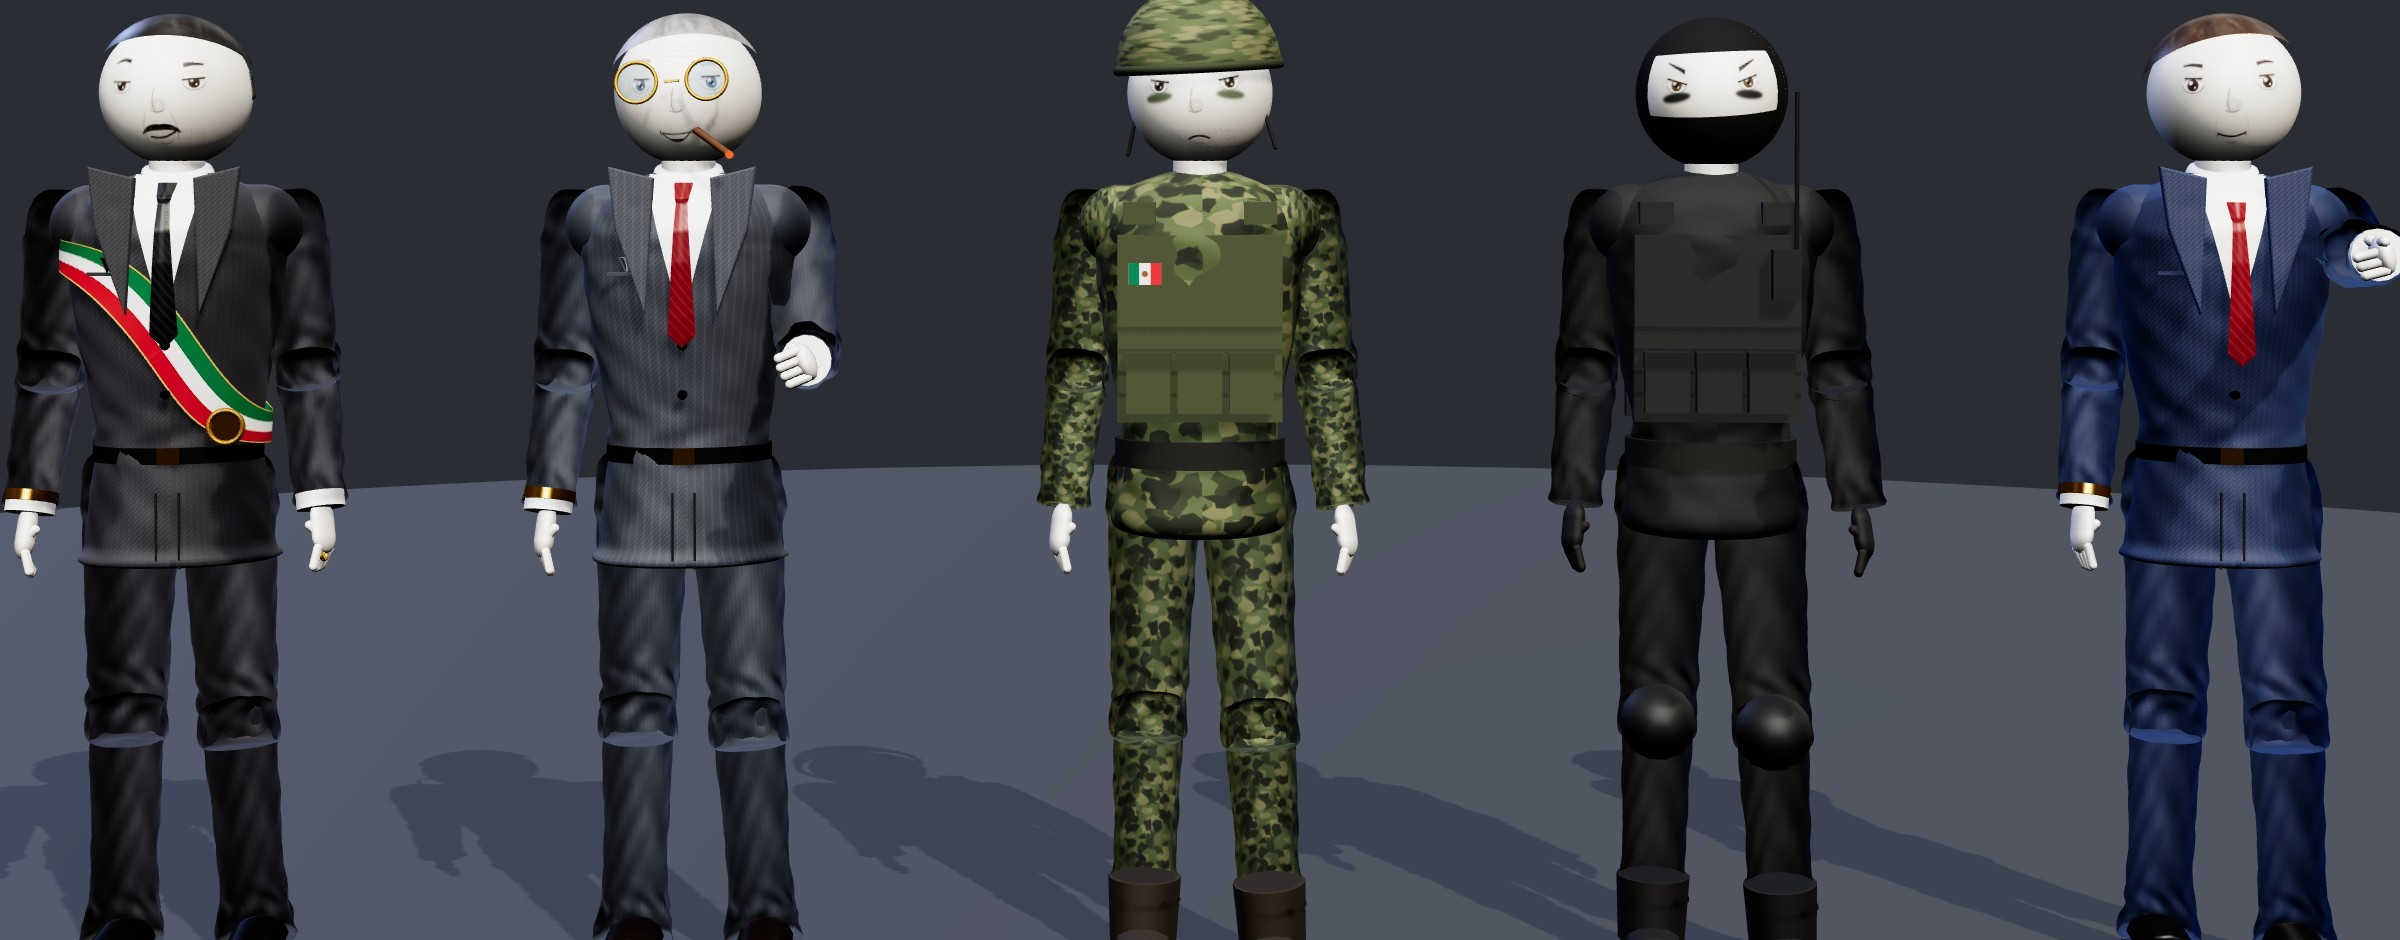
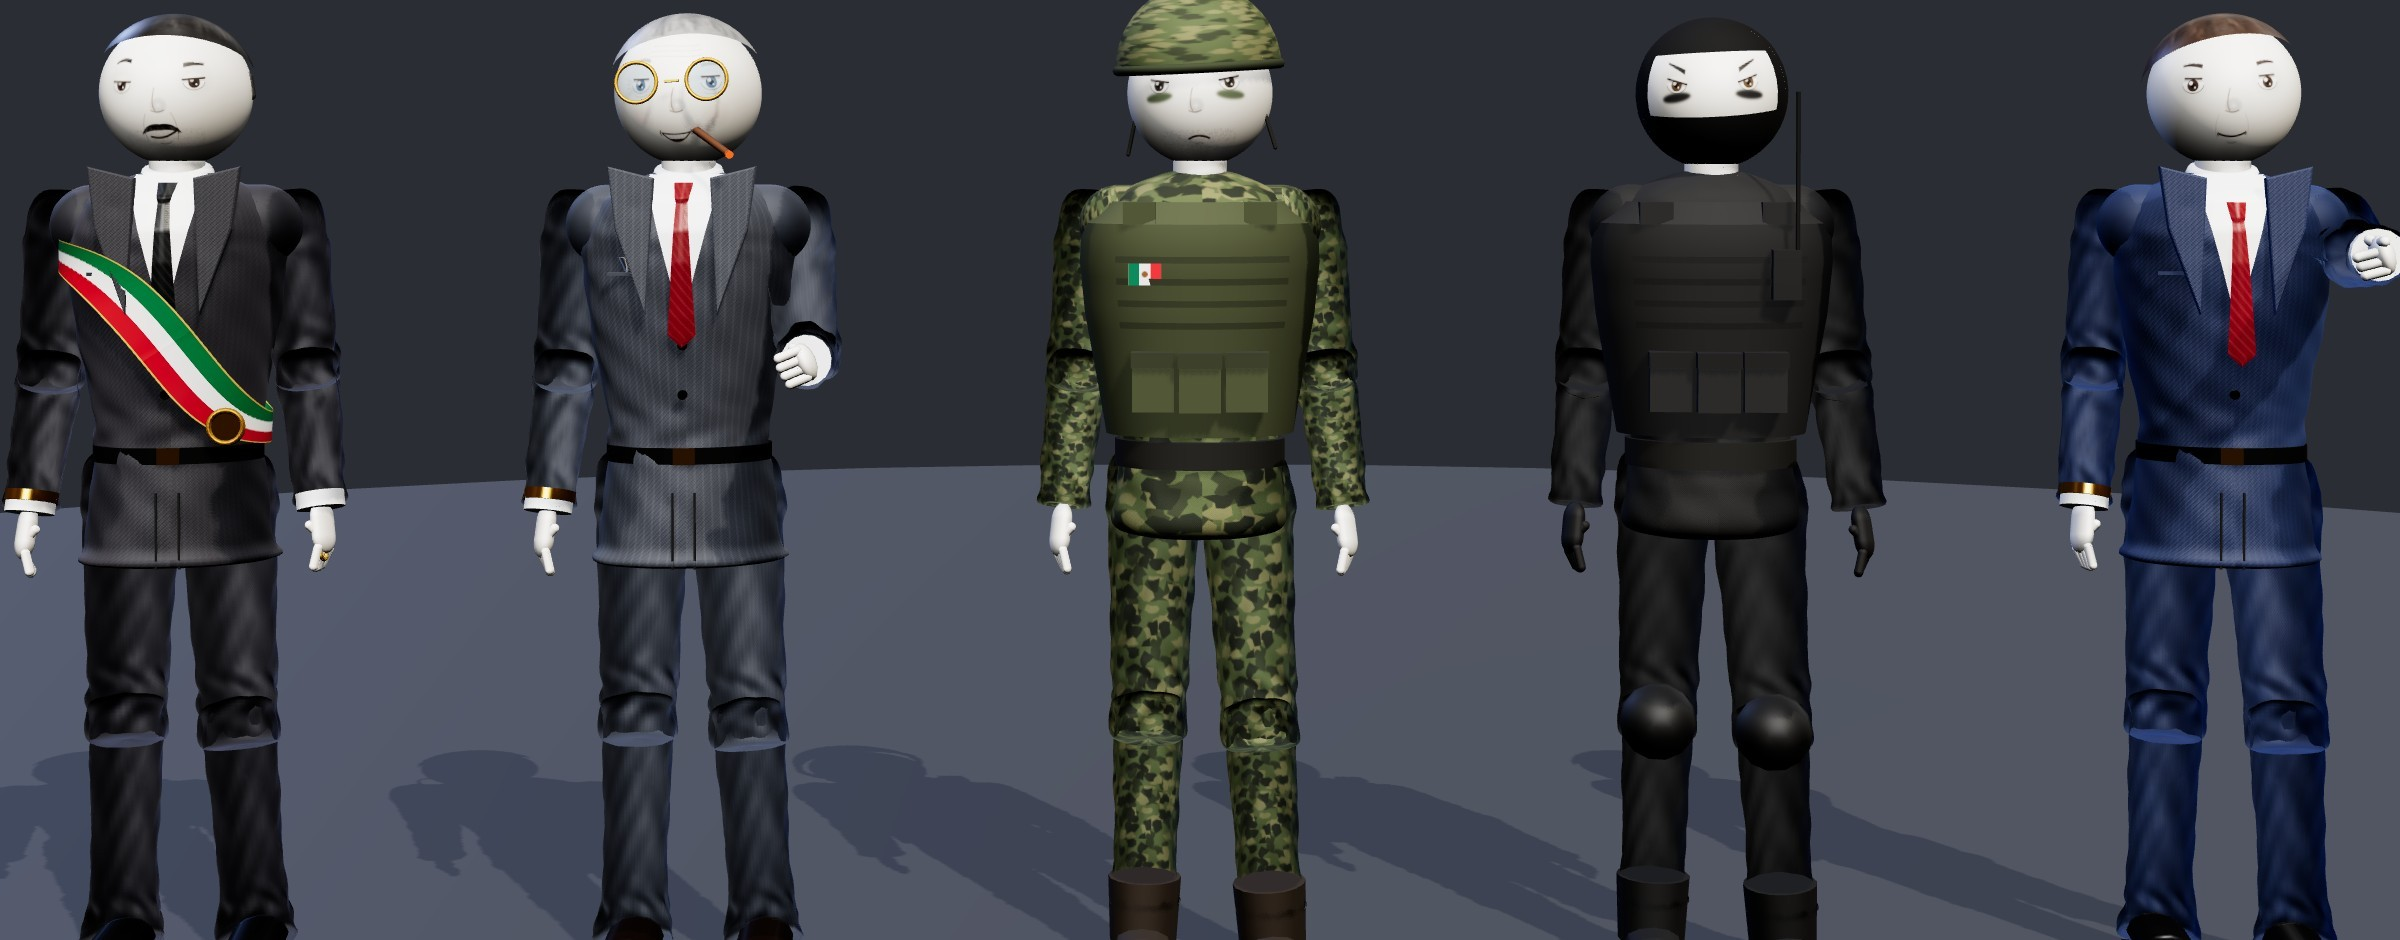
Fix soldier/tactical vest clipping and sash layering over the tie
Claude-Session: https://claude.ai/code/session_01WDrQiuAKGjVZNTyo2ws8iR

diff --git a/youtube-shorts/narco-estado/build/chars.js b/youtube-shorts/narco-estado/build/chars.js
@@ -252,21 +252,25 @@ export function stickman(kind) {
     add(root, new THREE.BoxGeometry(.04, .03, .01), std(0xc9a040, { metalness: 1, roughness: .2 }), 0, .965, .101);
   } else {
     // plate carrier with MOLLE webbing, pouches with flaps, shoulder straps
-    const vm = std(L.vest, { roughness: .95 }), web = std(L.vest - 0x0a0a0a, { roughness: 1 });
-    const front = add(root, new THREE.BoxGeometry(.3, .34, .05), vm, 0, 1.2, .1); front.geometry.translate(0, 0, 0);
-    const back = add(root, new THREE.BoxGeometry(.3, .36, .05), vm, 0, 1.2, -.1);
-    for (let i = 0; i < 4; i++) add(root, new THREE.BoxGeometry(.3, .008, .056), web, 0, 1.08 + i * .04, .1);
-    for (let i = -1; i <= 1; i++) { add(root, new THREE.BoxGeometry(.08, .1, .05), vm, i * .093, 1.1, .14); add(root, new THREE.BoxGeometry(.084, .03, .054), web, i * .093, 1.145, .142); }
+    const vm = std(L.vest, { roughness: .95 }), web = std(new THREE.Color(L.vest).multiplyScalar(.6), { roughness: 1 });
+    // vest shell wraps the torso (child of torso, so it follows its shape); webbing bands on the front
+    const shell = (y0, y1, off, phi0 = 0, phiL = Math.PI * 2) => { const pts = [];
+      for (let k = 0; k <= 16; k++) { const y = y0 + (y1 - y0) * k / 16; pts.push(new THREE.Vector2(rAt(y) + off, y)); }
+      const m = new THREE.Mesh(new THREE.LatheGeometry(pts, 48, phi0, phiL), vm); m.material = m.material; m.castShadow = m.receiveShadow = true; torso.add(m); return m; };
+    shell(1.0, 1.39, .03); const top = new THREE.Mesh(new THREE.LatheGeometry([new THREE.Vector2(rAt(1.39) + .03, 1.39), new THREE.Vector2(rAt(1.43) + .012, 1.43)], 48), vm); torso.add(top);
+    for (let i = 0; i < 4; i++) { const b = shell(1.2 + i * .04, 1.212 + i * .04, .04, -.75, 1.5); b.material = web; }
+    const fz = (x, y, o) => surfZ(x, y) + o;
+    for (let i = -1; i <= 1; i++) { const x = i * .085; add(root, new THREE.BoxGeometry(.076, .1, .04), vm, x, 1.1, fz(x, 1.1, .035)); add(root, new THREE.BoxGeometry(.08, .028, .044), web, x, 1.145, fz(x, 1.145, .038)); }
     for (const s of [-1, 1]) { const st = add(root, new THREE.BoxGeometry(.06, .04, .25), vm, s * .11, 1.41, 0); }
     add(root, new THREE.CylinderGeometry(.158, .158, .05, 32), std(0x15140f, { roughness: .9 }), 0, .965, 0).scale.z = .7;
-    if (L.radio) { add(root, new THREE.BoxGeometry(.05, .09, .04), std(0x0a0a0a), .12, 1.3, .14); add(root, new THREE.CylinderGeometry(.004, .004, .3), std(0x050505), .14, 1.48, .13); }
-    if (L.patch) { const p = add(root, new THREE.PlaneGeometry(.06, .04), new THREE.MeshStandardMaterial({ map: tex(60, 40, g => { ['#006847', '#eee', '#ce1126'].forEach((c, i) => { g.fillStyle = c; g.fillRect(i * 20, 0, 20, 40); }); g.fillStyle = '#7b4b1f'; g.beginPath(); g.arc(30, 20, 6, 0, 7); g.fill(); }) }), -.1, 1.3, .127); }
+    if (L.radio) { add(root, new THREE.BoxGeometry(.05, .09, .04), std(0x0a0a0a), .12, 1.3, fz(.12, 1.3, .045)); add(root, new THREE.CylinderGeometry(.004, .004, .3), std(0x050505), .14, 1.48, fz(.12, 1.3, .05)); }
+    if (L.patch) { const p = add(root, new THREE.PlaneGeometry(.06, .04), new THREE.MeshStandardMaterial({ map: tex(60, 40, g => { ['#006847', '#eee', '#ce1126'].forEach((c, i) => { g.fillStyle = c; g.fillRect(i * 20, 0, 20, 40); }); g.fillStyle = '#7b4b1f'; g.beginPath(); g.arc(30, 20, 6, 0, 7); g.fill(); }) }), -.1, 1.3, fz(-.1, 1.3, .034)); }
   }
   if (L.sash) {
     const st = tex(16, 120, (g, w, h) => { [['#c9a040', 0, 4], ['#0b6b3a', 4, 38], ['#f2f2f2', 42, 36], ['#b3121b', 78, 38], ['#c9a040', 116, 4]].forEach(([c, y, hh]) => { g.fillStyle = c; g.fillRect(0, y, w, hh); }); });
     st.repeat.set(1, 1);
     const geo = new THREE.CylinderGeometry(.2, .2, .1, 96, 1, true).rotateZ(-.95).translate(0, 1.17, 0), pp = geo.attributes.position;
-    for (let i = 0; i < pp.count; i++) { const x = pp.getX(i), y = pp.getY(i), z = pp.getZ(i), a = Math.atan2(z, x), r = rAt(y) + .016; pp.setX(i, Math.cos(a) * r); pp.setZ(i, Math.sin(a) * r); }
+    for (let i = 0; i < pp.count; i++) { const x = pp.getX(i), y = pp.getY(i), z = pp.getZ(i), a = Math.atan2(z, x), r = rAt(y) + .016 + .034 * Math.pow(Math.max(0, Math.sin(a)), 2); pp.setX(i, Math.cos(a) * r); pp.setZ(i, Math.sin(a) * r); }
     geo.computeVertexNormals();
     const band = new THREE.Mesh(geo, std(0xffffff, { map: st, roughness: .5, side: THREE.DoubleSide })); band.castShadow = true; torso.add(band);
     const med = add(root, new THREE.CylinderGeometry(.03, .03, .012, 24), std(0xd4a537, { metalness: 1, roughness: .2 }), .105, 1.02, .118); med.rotation.x = Math.PI / 2;
